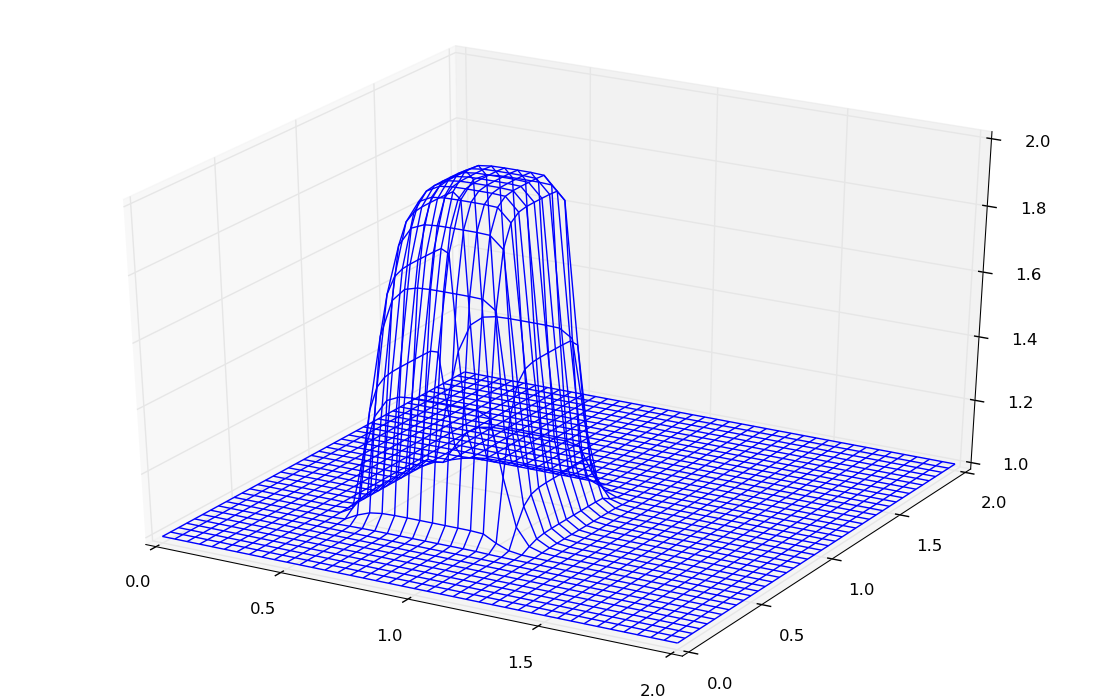
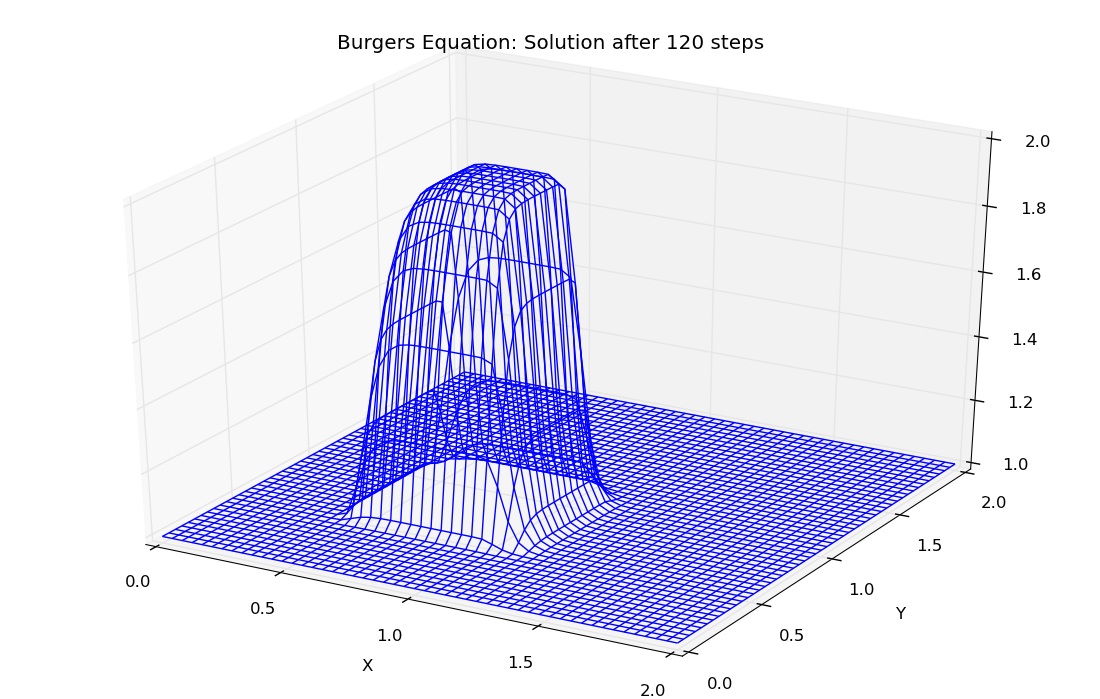
Minor changes for blog posting
fgheorghe.blogspot.com

diff --git a/step8/2D_Burger_Equation.py b/step8/2D_Burger_Equation.py
@@ -1,20 +1,19 @@
 # Step 8: Burgers' equations
 # it's an equation that has both the convective and diffusive terms
-# the ecuations to be solved are: du/dt + u*du/dx + v*du/dy = nu*d2u/dx2 +nu*d2u/dy2
+# the ecuations to be solved are:
+# du/dt + u*du/dx + v*du/dy = nu*d2u/dx2 +nu*d2u/dy2
 # this a very complex equation but has analitycal solutions
 # these equations can have discontinuous solutions, that is shocks
 
 import numpy as np
 from mpl_toolkits.mplot3d import Axes3D
 import pylab as pl
-from pylab import cm
 pl.ion()
 
 # Variable declaration
 nx = 51
 ny = 51
 nt = 1200
-c = 1
 
 dx = 2.0/(nx-1)
 dy = 2.0/(ny-1)
@@ -39,9 +38,11 @@ v[0.5/dy:1/dy+1, 0.5/dx:1/dx+1] = 2
 fig  = pl.figure(figsize = (11,7), dpi = 100)
 ax = Axes3D(fig)
 X, Y = np.meshgrid(x,y)
-wire1 = ax.plot_wireframe(X, Y, u[:], cmap = cm.coolwarm)
-#wire2 = ax.plot_wireframe(X, Y, v[:], cmap = cm.coolwarm)
-# the plots are identical
+ax.plot_wireframe(X, Y, u[:])
+pl.xlabel('X')
+pl.ylabel('Y')
+pl.title('Burgers Equation: Initial condition')
+ax.set_zlim(1,2.0)
 
 # The scheme
 for n in range(nt+1):
@@ -74,5 +75,8 @@ for n in range(nt+1):
 fig = pl.figure(figsize = (11,7), dpi = 100)
 ax = Axes3D(fig)
 X, Y = np.meshgrid(x,y)
-wire1 = ax.plot_wireframe(X,Y,u[:])
-#wire2 = ax.plot_wireframe(X,Y,v[:])
+ax.plot_wireframe(X,Y,u[:])
+pl.xlabel('X')
+pl.ylabel('Y')
+pl.title('Burgers Equation: Solution after 1200 steps')
+ax.set_zlim(1,2.0)
